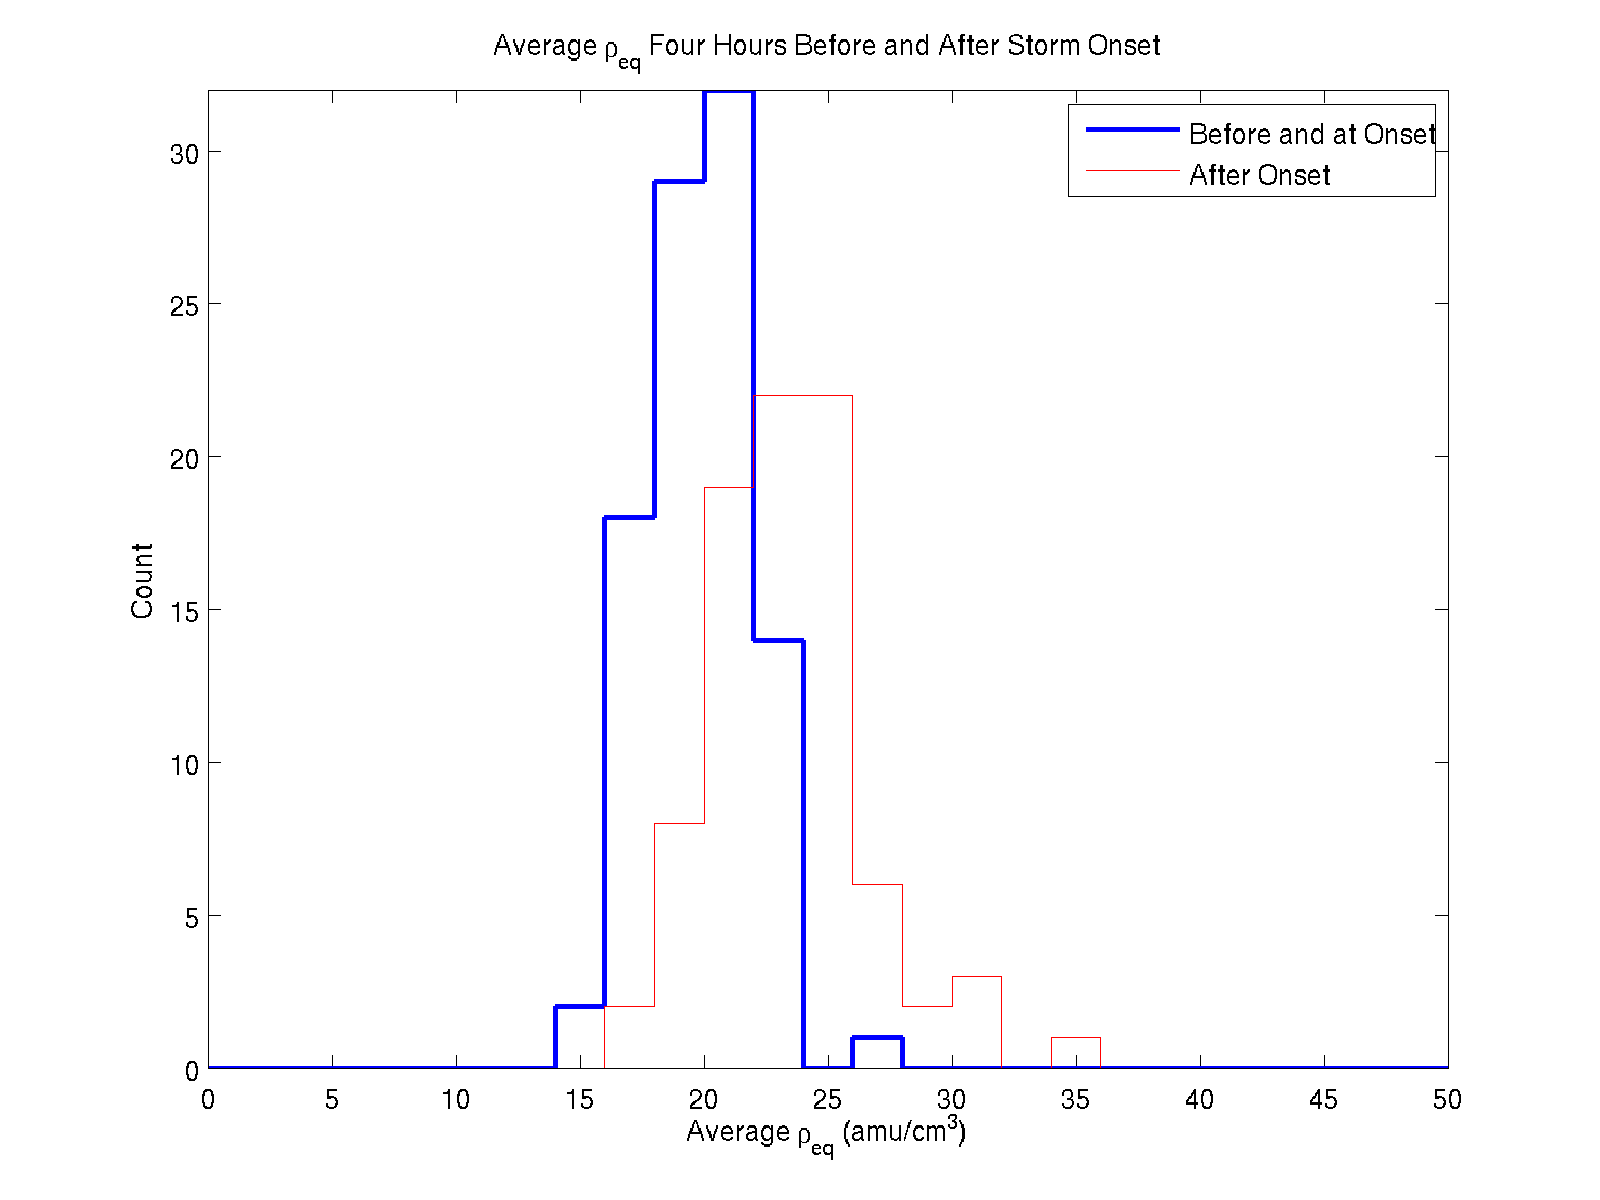
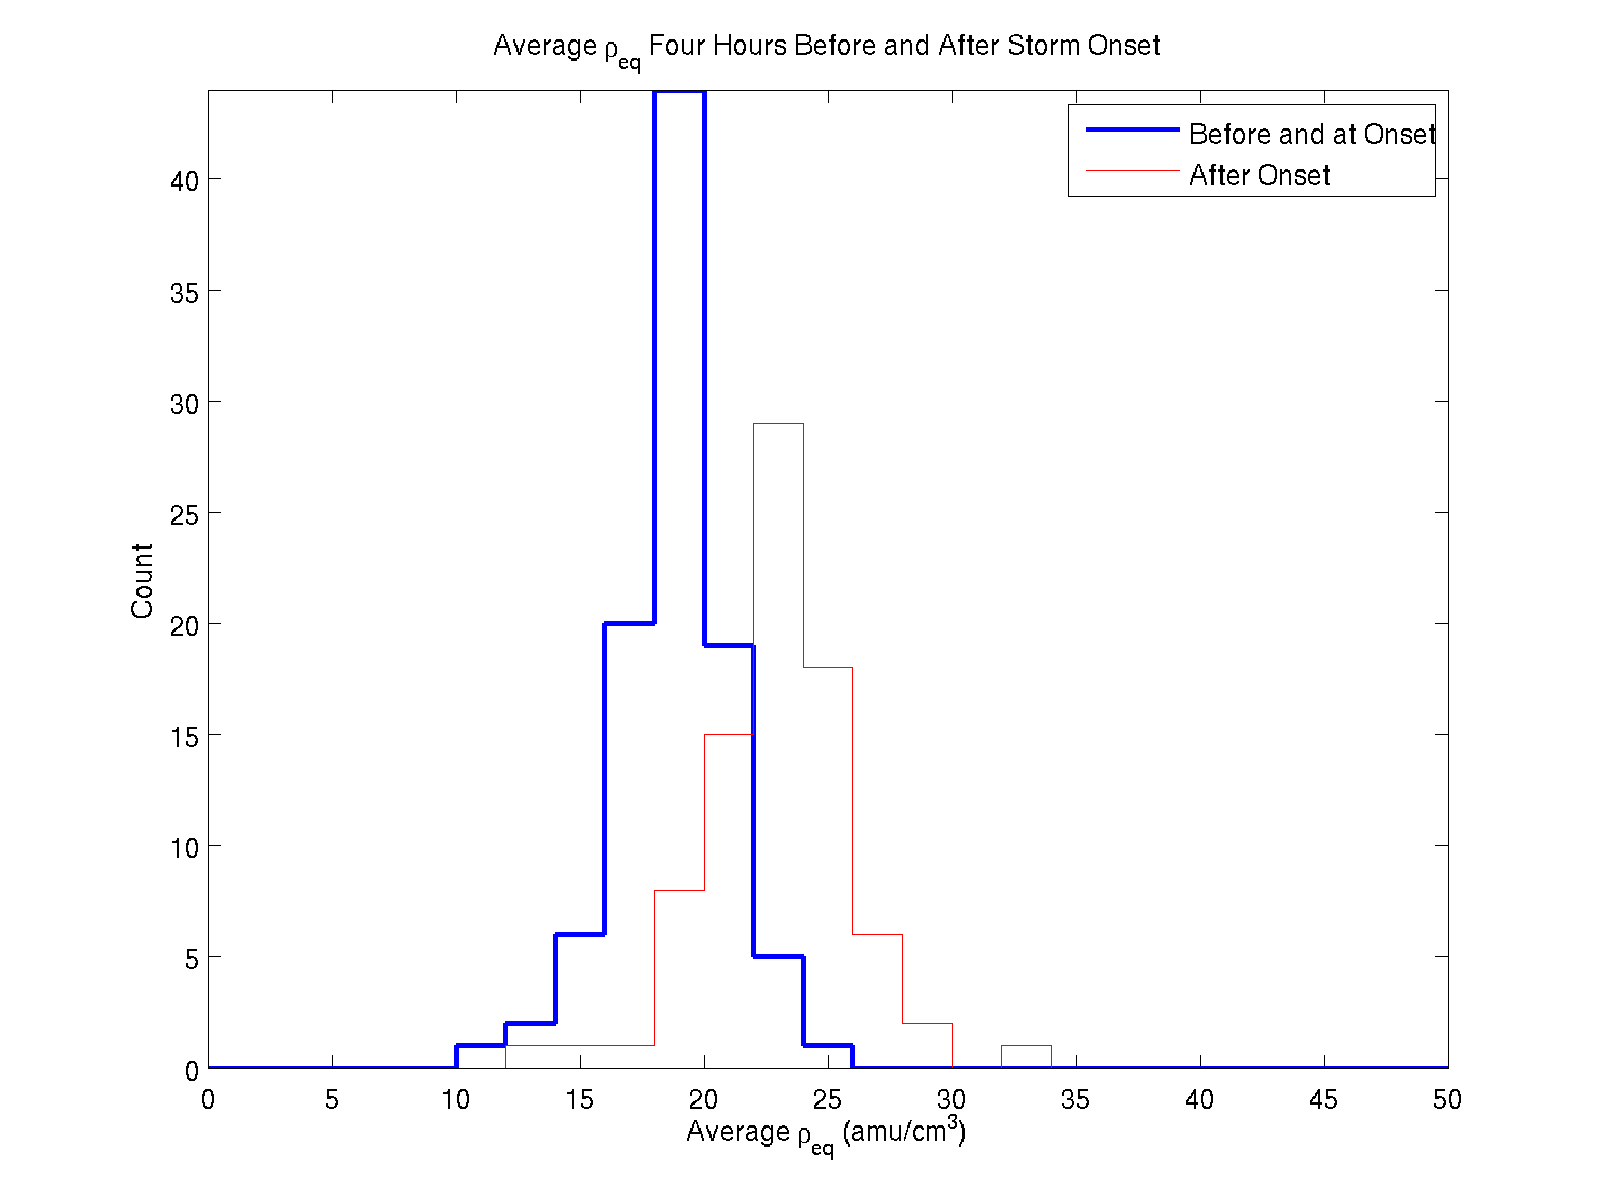
Updated histogram

diff --git a/ComplexPlots.m b/ComplexPlots.m
@@ -54,8 +54,9 @@ if(MakePaperPlots && (stormcase==2 || stormcase==24 || stormcase==1))
         %}
         
         if(nansum(tvals)==1) %That one plot with only 1 significant value
-           h=figure('Visible',visible); [hhist, nhist]=hist(AVMDMat(nanmedian(AVMat(:,tw,5),2)>=topcut,tvals==1),1:2.5:120); hhist=bar(nhist,hhist); set(hhist,'FaceColor','none','EdgeColor','r'); 
-           hold on;[hhist, nhist]=hist(AVMDMat(nanmedian(AVMat(:,tw,5),2)<topcut,tvals==1),1:2.5:120); hhist=bar(nhist,hhist); set(hhist,'FaceColor','none','EdgeColor','b'); 
+           h=figure('Visible',visible); [hhist, nhist]=hist(AVMDMat(nanmedian(AVMat(:,tw,5),2)>=topcut,tvals==1),1:2.5:120); hhhist=bar(nhist,hhist); set(hhhist,'FaceColor','none','EdgeColor','r'); 
+           hold on;[hhist2, nhist2]=hist(AVMDMat(nanmedian(AVMat(:,tw,5),2)<topcut,tvals==1),1:2.5:120); hhhist2=bar(nhist2,hhist2); set(hhhist2,'FaceColor','none','EdgeColor','b'); 
+           plot(nhist,hhist,'r','LineWidth',2); plot(nhist2,hhist2,'b','LineWidth',2); 
            legend('Events with higher median B_z','Events with lower median B_z')
            xlabel('\rho_{eq} (amu/cm^3)')
            ylabel('Number of events');
